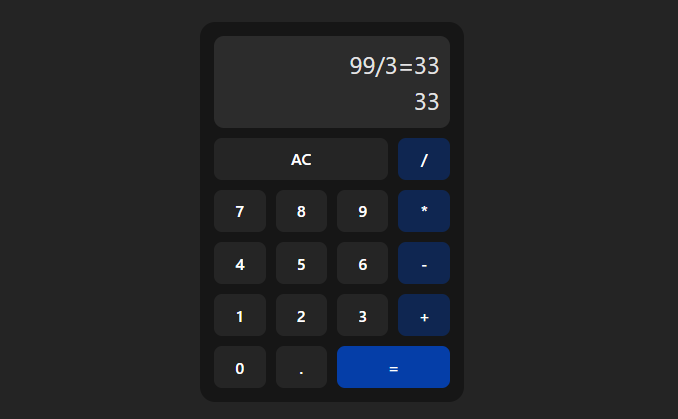
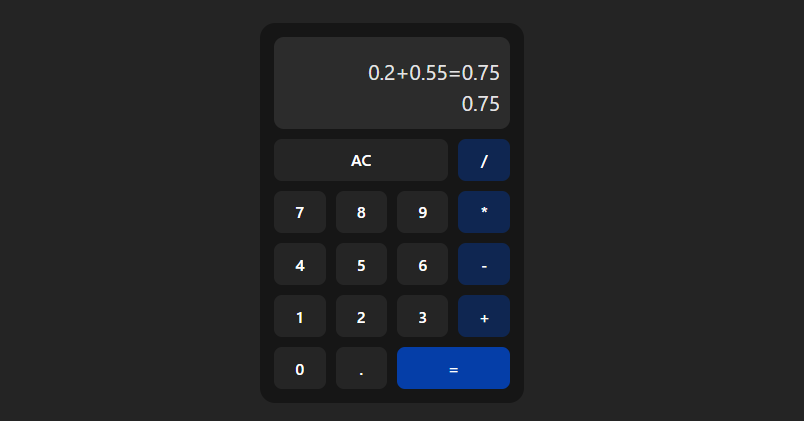
added decimal button function and after calculation.

diff --git a/src/App.jsx b/src/App.jsx
@@ -7,25 +7,41 @@ function App() {
   const [currentValue, setCurrenValue] = useState(0);
 
   const regex = /^[0-9]$/;
+  const regexOperator = /^[+\-*/]$/;
 
   function handleNumberClick(e) {
     const value = e.target.innerText;
-    if (regex.test(value) && !isNaN(value)) {
-      setinputValues((inputValues !== 0 ? inputValues : "") + value);
 
-      if (currentValue === 0) {
+    if (regex.test(value) && !isNaN(value)) {
+      if (inputValues.toString().includes("=")) {
+        setinputValues(value);
         setCurrenValue(value);
-      } else if (!isNaN(currentValue)) {
-        setCurrenValue(currentValue.toString() + value.toString());
       } else {
-        setCurrenValue(value);
+        setinputValues((inputValues !== 0 ? inputValues : "") + value);
+
+        if (currentValue === 0) {
+          setCurrenValue(value);
+        } else if (!isNaN(currentValue)) {
+          setCurrenValue(currentValue.toString() + value.toString());
+        } else {
+          setCurrenValue(value);
+        }
       }
     }
   }
 
   function handleOperatorClick(e) {
     const operator = e.target.innerText;
-    setinputValues(inputValues + operator);
+
+    if (inputValues.toString().includes("=")) {
+      setinputValues(currentValue + operator);
+      setCurrenValue(operator);
+    } else if (currentValue.slice(-1).match(regexOperator)) {
+      setCurrenValue(currentValue.slice(0, -1) + operator);
+      setinputValues(inputValues.slice(0, -1) + operator);
+    } else {
+      setinputValues(inputValues + operator);
+    }
 
     switch (operator) {
       case "+":
@@ -46,7 +62,14 @@ function App() {
   }
 
   function handleEqualClick() {
-    const result = eval(inputValues);
+    let result = Number(eval(inputValues));
+    // if (!Number.isInteger(result)) {
+    //   result =
+    //     result.toString().indexOf(".") > -1
+    //       ? result.toFixed(4)
+    //       : result.toString();
+    // }
+
     setinputValues(result);
     setCurrenValue(result);
     setinputValues(inputValues + "=" + result);
@@ -55,6 +78,23 @@ function App() {
   function resetAllValues() {
     setinputValues(0);
     setCurrenValue(0);
+  }
+
+  function handleDecimalClick(e) {
+    const operator = e.target.innerText;
+    const value = ".";
+
+    if (inputValues.toString().includes("=")) {
+      setinputValues(currentValue + operator);
+      setCurrenValue(operator);
+    } else if (
+      currentValue !== 0 &&
+      !currentValue.includes(value) &&
+      !isNaN(currentValue)
+    ) {
+      setinputValues((inputValues !== 0 ? inputValues : "") + value);
+      setCurrenValue(currentValue + value);
+    }
   }
 
   useEffect(() => {}, [handleNumberClick]);
@@ -130,7 +170,9 @@ function App() {
           <button id="zero" onClick={handleNumberClick}>
             0
           </button>
-          <button id="decimal">.</button>
+          <button id="decimal" onClick={handleDecimalClick}>
+            .
+          </button>
           <button id="equals" onClick={handleEqualClick}>
             =
           </button>

diff --git a/src/assets/css/Calculator.css b/src/assets/css/Calculator.css
@@ -10,7 +10,7 @@
   text-align: right;
   background-color: rgb(44, 44, 44);
   padding: 10px;
-  font-size: 1.5em;
+  font-size: 1.3rem;
   margin: 0 0 10px;
   border-radius: 10px;
   min-height: 72px;

diff --git a/README.md b/README.md
@@ -2,6 +2,11 @@
 
 It is a simple calculator project.
 
+## Features
+
+- Calculations can be made with fractional numbers.
+- After the calculation, the process can be continued with the remainder.
+
 ## Screenshot
 
 ![Javascript Calculator](https://github.com/huseyineskan/javaScript-calculator/blob/main/src/assets/img/calculator.png)
